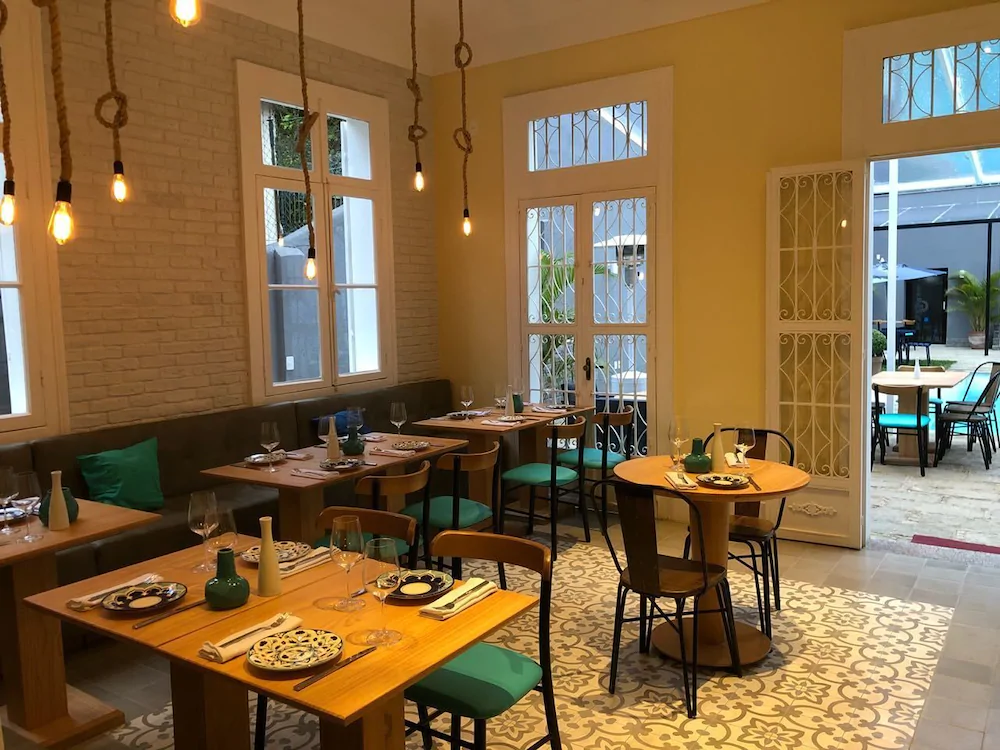
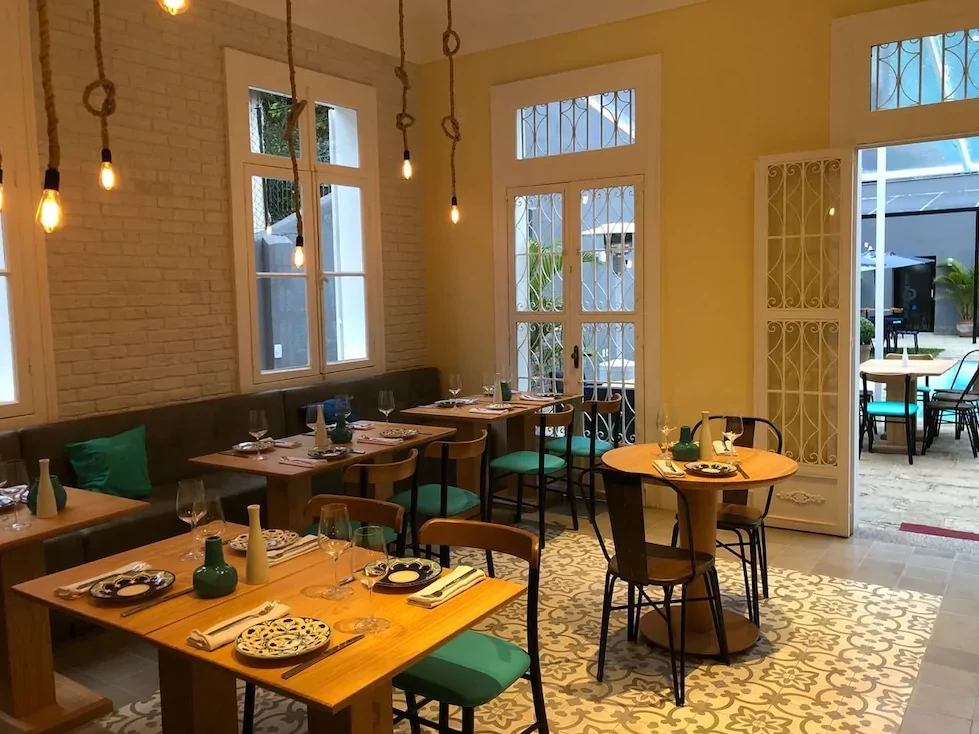
photo gallery

diff --git a/index.html b/index.html
@@ -68,19 +68,29 @@
                         <div id="fotos" class="is-hidden">
                             <div class="columns is-multiline">
                                 <div class="column is-6-desktop has-text-centered">
-                                    <img src="./assets/afranioRestaurante/WhatsApp Image 2020-10-18 at 13.15.32(2).jpeg" alt="">
+                                    <figure class="image is4by3">
+                                        <img src="./assets/casaRosa/2eb447a6_z.webp" alt="">
+                                    </figure>
                                 </div>
                                 <div class="column is-6-desktop has-text-centered">
-                                    <img src="./assets/afranioRestaurante/WhatsApp Image 2020-10-18 at 13.15.32(4).jpeg" alt="">
+                                    <figure class="image is4by3">
+                                        <img src="./assets/casaRosa/4b37f2d1_z.webp" alt="">
+                                    </figure>
                                 </div>
                                 <div class="column is-6-desktop has-text-centered">
-                                    <img src="./assets/afranioRestaurante/WhatsApp Image 2020-10-18 at 13.15.32(3).jpeg" alt="">
+                                    <figure class="image is4by3">
+                                        <img src="./assets/casaRosa/89787156_z.webp" alt="">
+                                    </figure>
                                 </div>
                                 <div class="column is-6-desktop has-text-centered">
-                                    <img src="./assets/afranioRestaurante/WhatsApp Image 2020-10-18 at 13.15.32.jpeg" alt="">
+                                    <figure class="image is3by4">
+                                        <img src="./assets/casaRosa/d7f3a593_z.webp" alt="">
+                                    </figure>
                                 </div>
                                 <div class="column is-6-desktop has-text-centered">
-                                    <img src="./assets/afranioRestaurante/WhatsApp Image 2020-10-18 at 13.17.09.jpeg" alt="">
+                                    <figure class="image is4by3">
+                                        <img src="./assets/casaRosa/309414e2_z.webp" alt="">
+                                    </figure>
                                 </div>
                             </div>
                         </div>
@@ -295,11 +305,11 @@
                     <p class="subtitle has-text-centered">
                         Confeccionar produtos, de forma artesanal, com responsabilidade socioambiental, criatividade, qualidade e brasilidade.
                     </p>
-                    <p>Cada vez mais temos sentido necessidade de mudar de ares e ver coisas novas e isto começa a ser possível, novamente, desde que nos mantenhamos conscientes da necessidade de privilegiarmos a segurança que o momento exige. Máscaras e álcool gel continuarão sendo parceiros por muito tempo, assim como a busca por programas que nos permitam, por exemplo, fazer refeições a céu aberto, seguindo todas as normas obrigatórias nestes tempos não convencionais. E, se a tal refeição, vier acompanhada por uma exposição de arte, melhor ainda. Isto é o que poderemos conferir, neste próximo final de semana, dias 04, 05 e 06/12/2020, na Casa Rosa, em frente ao Palácio de Cristal</p>
+                    <p class="is-size-6 has-text-justified mb-6">Cada vez mais temos sentido necessidade de mudar de ares e ver coisas novas e isto começa a ser possível, novamente, desde que nos mantenhamos conscientes da necessidade de privilegiarmos a segurança que o momento exige. Máscaras e álcool gel continuarão sendo parceiros por muito tempo, assim como a busca por programas que nos permitam, por exemplo, fazer refeições a céu aberto, seguindo todas as normas obrigatórias nestes tempos não convencionais. E, se a tal refeição, vier acompanhada por uma exposição de arte, melhor ainda. Isto é o que poderemos conferir, neste próximo final de semana, dias 04, 05 e 06/12/2020, na Casa Rosa, em frente ao Palácio de Cristal</p>
                     
-                    <p>Entre 12h e 20h, de sexta e sábado, e entre 12h e 18h de domingo, quem for até lá vai poder conferir os trabalhos de diversos artistas da cidade, dentre os quais, Marta Monteiro, do Nosso Mosaico, AdriaNobre, com Óleo sobre Tela, Patrícia Noel, do Dona Terra Paisagismo, Helena Pinheiro com peças de seda pintadas à mão, Sheila Gabrich com patchwork, e a estilista Ana Maria Montezano, com peças de sua mais recente coleção.</p>
-                    <br>
-                    <!--<p>O restaurante pontuado por seu ambiente em meio a natureza, tem gastronomia internacional. Cardápio com opção de Frutos do Mar, Carnes, massas e vegano. Além disso, ótima Carta de Vinho  com preços bem acessíveis. Recomendamos a harmonização do Prato Atum em crostas de Gergelim escoltado com o Pinot Grigio  da foto ou Lagostim escoltado por Catena Chardonnay. Vale dizer que as mesas, no momento, se espalham, com o devido distanciamento, no pátio externo, ao redor do aprazível lago. </p>-->
+                    <p class="is-size-6 has-text-justified">Entre 12h e 20h, de sexta e sábado, e entre 12h e 18h de domingo, quem for até lá vai poder conferir os trabalhos de diversos artistas da cidade, dentre os quais, Marta Monteiro, do Nosso Mosaico, AdriaNobre, com Óleo sobre Tela, Patrícia Noel, do Dona Terra Paisagismo, Helena Pinheiro com peças de seda pintadas à mão, Sheila Gabrich com patchwork, e a estilista Ana Maria Montezano, com peças de sua mais recente coleção.</p>
+                    
+                    <!--<p class="is-size-6 has-text-justified mb-6">O restaurante pontuado por seu ambiente em meio a natureza, tem gastronomia internacional. Cardápio com opção de Frutos do Mar, Carnes, massas e vegano. Além disso, ótima Carta de Vinho  com preços bem acessíveis. Recomendamos a harmonização do Prato Atum em crostas de Gergelim escoltado com o Pinot Grigio  da foto ou Lagostim escoltado por Catena Chardonnay. Vale dizer que as mesas, no momento, se espalham, com o devido distanciamento, no pátio externo, ao redor do aprazível lago. </p>-->
                 </div>
             </div>       
         </div>
